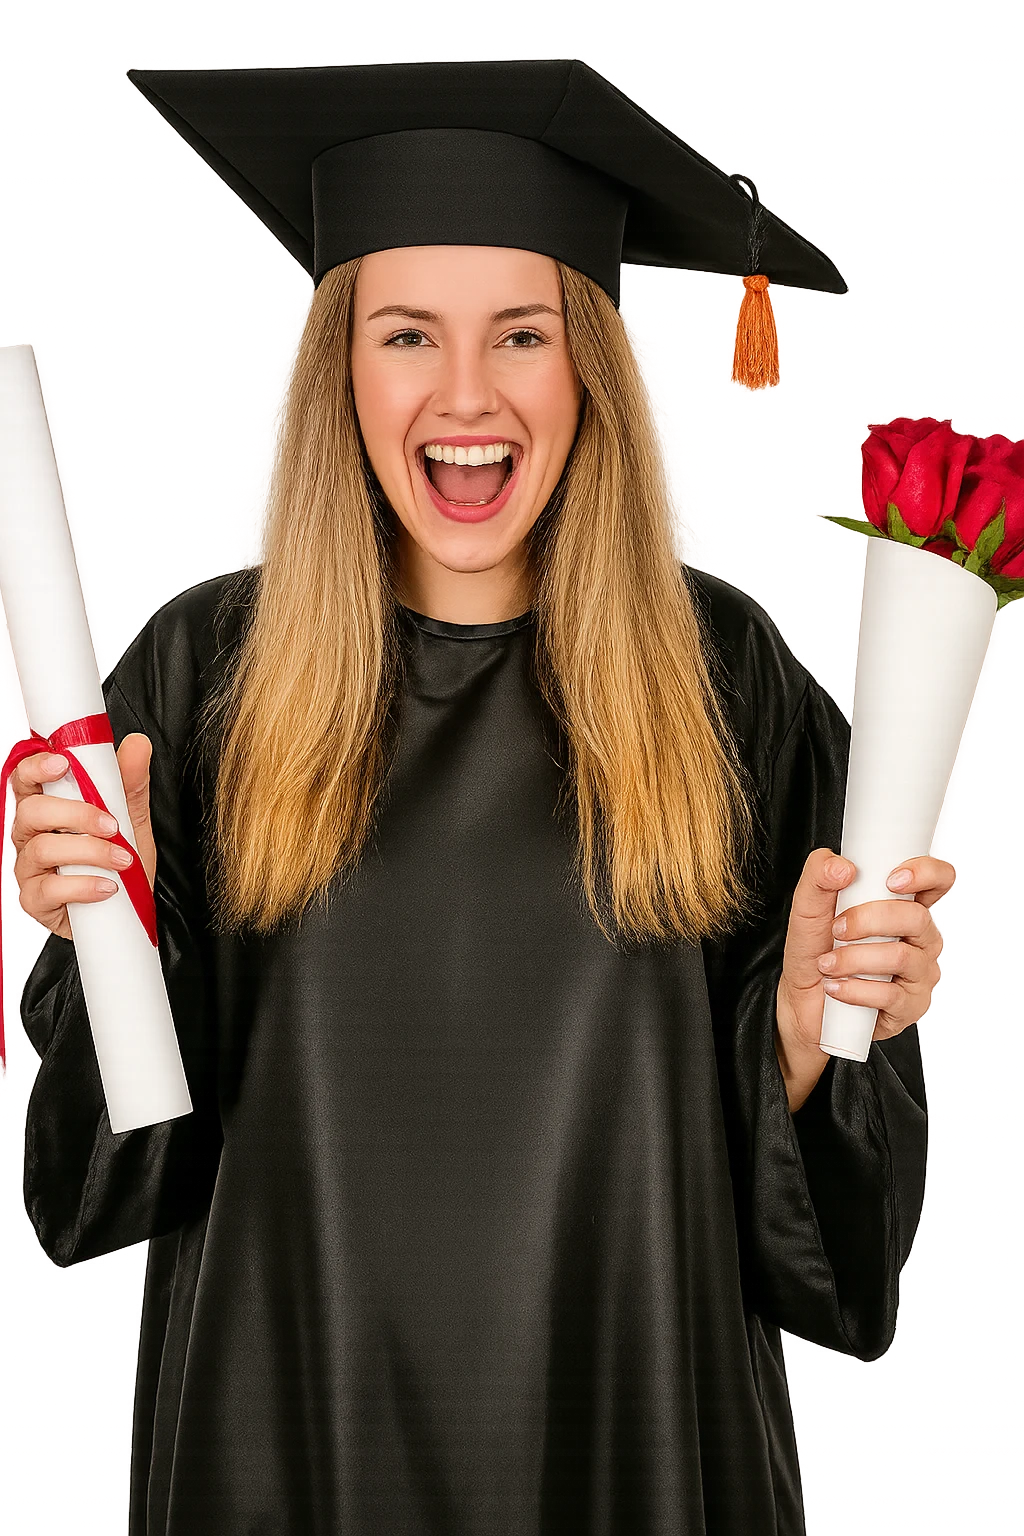
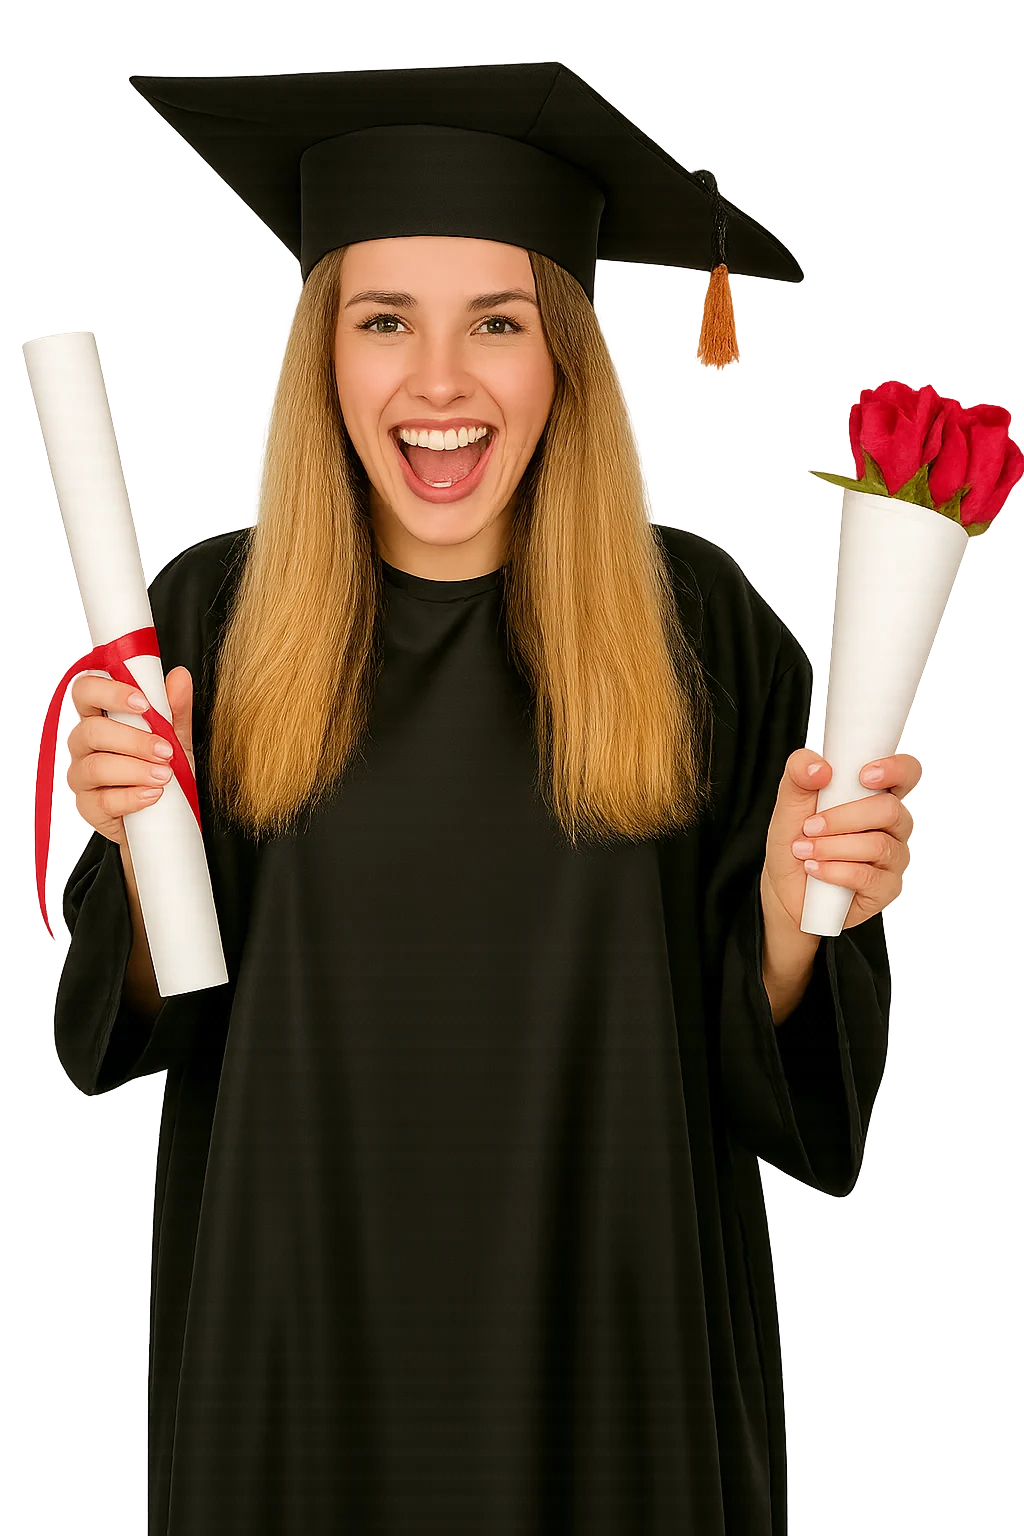
Update contact section styles: increased gap in the contact wrapper for better spacing and added padding to the contact image for improved layout. Updated contact image asset for enhanced visual quality.

diff --git a/assets/css/style.css b/assets/css/style.css
@@ -3309,13 +3309,14 @@ ul, ol {
 .contact-wrapper {
     display: flex;
     align-items: center;
-    gap: var(--xxl);
+    gap: 5rem; /* Increased from var(--xxl) to 5rem */
 }
 
 .contact-image {
     flex: 0 0 40%;
     position: relative;
     z-index: 2;
+    padding-right: 2rem; /* Added padding for extra spacing */
 }
 
 .contact-image img {
